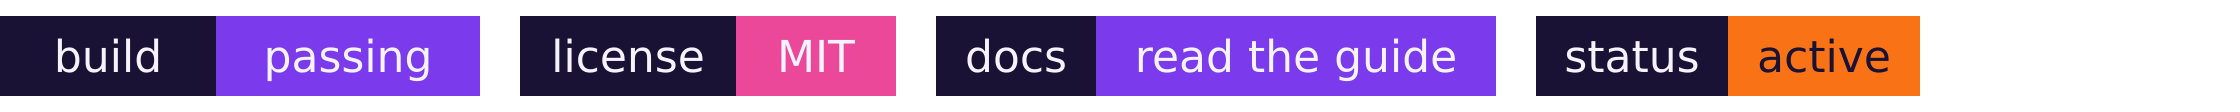
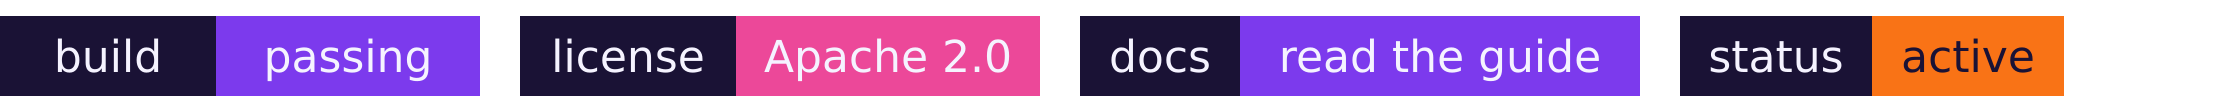
feat(ISI-7381): board revisions — Apache-2.0 license badge + on-brand Mermaid diagram style
Per board comment on ISI-7381:
- License badge MIT → Apache_2.0 (README-BADGES.md, badge_strip.svg/png, BRAND-KIT.md)
- Add on-brand Mermaid diagram convention: branded %%{init}%% theme block + flow
  example using the product lexicon, so README/docs diagrams read as one system

Changed region(s): [[0.3438, 0.1339, 0.9375, 0.8571]]

diff --git a/branding/kit/build/render_badge.js b/branding/kit/build/render_badge.js
@@ -1,8 +1,8 @@
 const sharp = require('/tmp/node_modules/sharp');
 const fs = require('fs');
-const KIT = '/mnt/nas/project/contentremixer/branding/kit';
+const KIT = '/tmp/isi7381-wt2/branding/kit';
 (async () => {
   const buf = fs.readFileSync(`${KIT}/svg/badge_strip.svg`);
   await sharp(buf, { density: 288 }).png().toFile(`${KIT}/png/badge_strip.png`);
-  console.log('done');
+  console.log('rendered');
 })().catch(e=>{console.error(e.message);process.exit(1)});

diff --git a/branding/kit/README-BADGES.md b/branding/kit/README-BADGES.md
@@ -29,11 +29,14 @@ flat brand marks. Never mix `flat-square` with the default rounded shields.
 ```md
 <p align="center">
   <img src="https://img.shields.io/badge/build-passing-7C3AED?style=flat-square" alt="build">
-  <img src="https://img.shields.io/badge/license-MIT-EC4899?style=flat-square" alt="license">
+  <img src="https://img.shields.io/badge/license-Apache_2.0-EC4899?style=flat-square" alt="license">
   <img src="https://img.shields.io/badge/docs-read_the_guide-7C3AED?style=flat-square" alt="docs">
   <img src="https://img.shields.io/badge/status-active-F97316?style=flat-square" alt="status">
 </p>
 ```
+
+> **License:** ContentRemixer ships under **Apache License 2.0**. The license badge always
+> reads `Apache_2.0` and links to the repo `LICENSE`. (Underscores render as spaces on shields.)
 
 Live CI/version badges (GitHub Actions, release, etc.) use the same palette via `&color=`:
 
@@ -62,8 +65,34 @@ Live CI/version badges (GitHub Actions, release, etc.) use the same palette via 
 </p>
 <p align="center">
   <img src="https://img.shields.io/badge/build-passing-7C3AED?style=flat-square&labelColor=1A1235" alt="build">
-  <img src="https://img.shields.io/badge/license-MIT-EC4899?style=flat-square&labelColor=1A1235" alt="license">
+  <img src="https://img.shields.io/badge/license-Apache_2.0-EC4899?style=flat-square&labelColor=1A1235" alt="license">
   <img src="https://img.shields.io/badge/docs-read_the_guide-7C3AED?style=flat-square&labelColor=1A1235" alt="docs">
   <img src="https://img.shields.io/badge/status-active-F97316?style=flat-square&labelColor=1A1235" alt="status">
 </p>
 ```
+
+## Diagrams — Mermaid (on-brand)
+
+Diagrams in README and docs use **Mermaid** (GitHub renders ```` ```mermaid ```` fenced blocks
+natively — no build step). Theme every diagram with the brand tokens so it reads as one system
+in light and dark. Paste this `init` directive as the first line of each diagram:
+
+````md
+```mermaid
+%%{init: {'theme':'base','themeVariables':{
+  'primaryColor':'#1A1235','primaryTextColor':'#F5F3FF','primaryBorderColor':'#7C3AED',
+  'lineColor':'#A78BFA','secondaryColor':'#312E5A','tertiaryColor':'#0D0A1A',
+  'fontFamily':'Poppins, ui-sans-serif, system-ui'}}}%%
+flowchart LR
+  Crate[The Crate<br/>reference library] -->|crate-dig| Sample[Sample<br/>source extract]
+  Sample --> Mix[The Mix<br/>remixed draft]
+  Mix --> Master[Mastering<br/>brand-voice check]
+  Master --> Drop[The Drop<br/>PR · publish]
+```
+````
+
+Renders as the ContentRemixer flow in brand ink + violet/lavender. Rules:
+- **Always include the `init` directive** — unthemed Mermaid clashes with the dark brand.
+- Use the **product lexicon** in node labels (Crate · Sample · Mix · Mastering · The Drop).
+- Accent an edge or node with violet `#7C3AED`; use orange `#F97316` only to spotlight one step.
+- Keep diagrams horizontal (`flowchart LR`) in READMEs so they fit the column width.

diff --git a/branding/kit/BRAND-KIT.md b/branding/kit/BRAND-KIT.md
@@ -50,9 +50,13 @@ See [`VOICE-AND-TONE.md`](VOICE-AND-TONE.md). In one line: *talk like a DevRel w
 clear, a little playful, never hype.* Product lexicon: Crate · Sample · Mix · Mastering ·
 Sample clearance · The Booth · The Drop · The Weekly Remix.
 
-## 5. README badges & banner
+## 5. README badges, banner & diagrams
 See [`README-BADGES.md`](README-BADGES.md). flat-square badges, ink label + brand-token value,
 banner at the top full-width. ![badges](png/badge_strip.png)
+- **License:** ContentRemixer ships under **Apache License 2.0** — the license badge reads
+  `Apache_2.0` and links to the repo `LICENSE`.
+- **Diagrams:** use **Mermaid** fenced blocks (GitHub renders them natively) with the brand
+  `%%{init}%%` theme in `README-BADGES.md` — ink/violet palette, product-lexicon node labels.
 
 ## 6. Rebuilding assets
 ```bash
